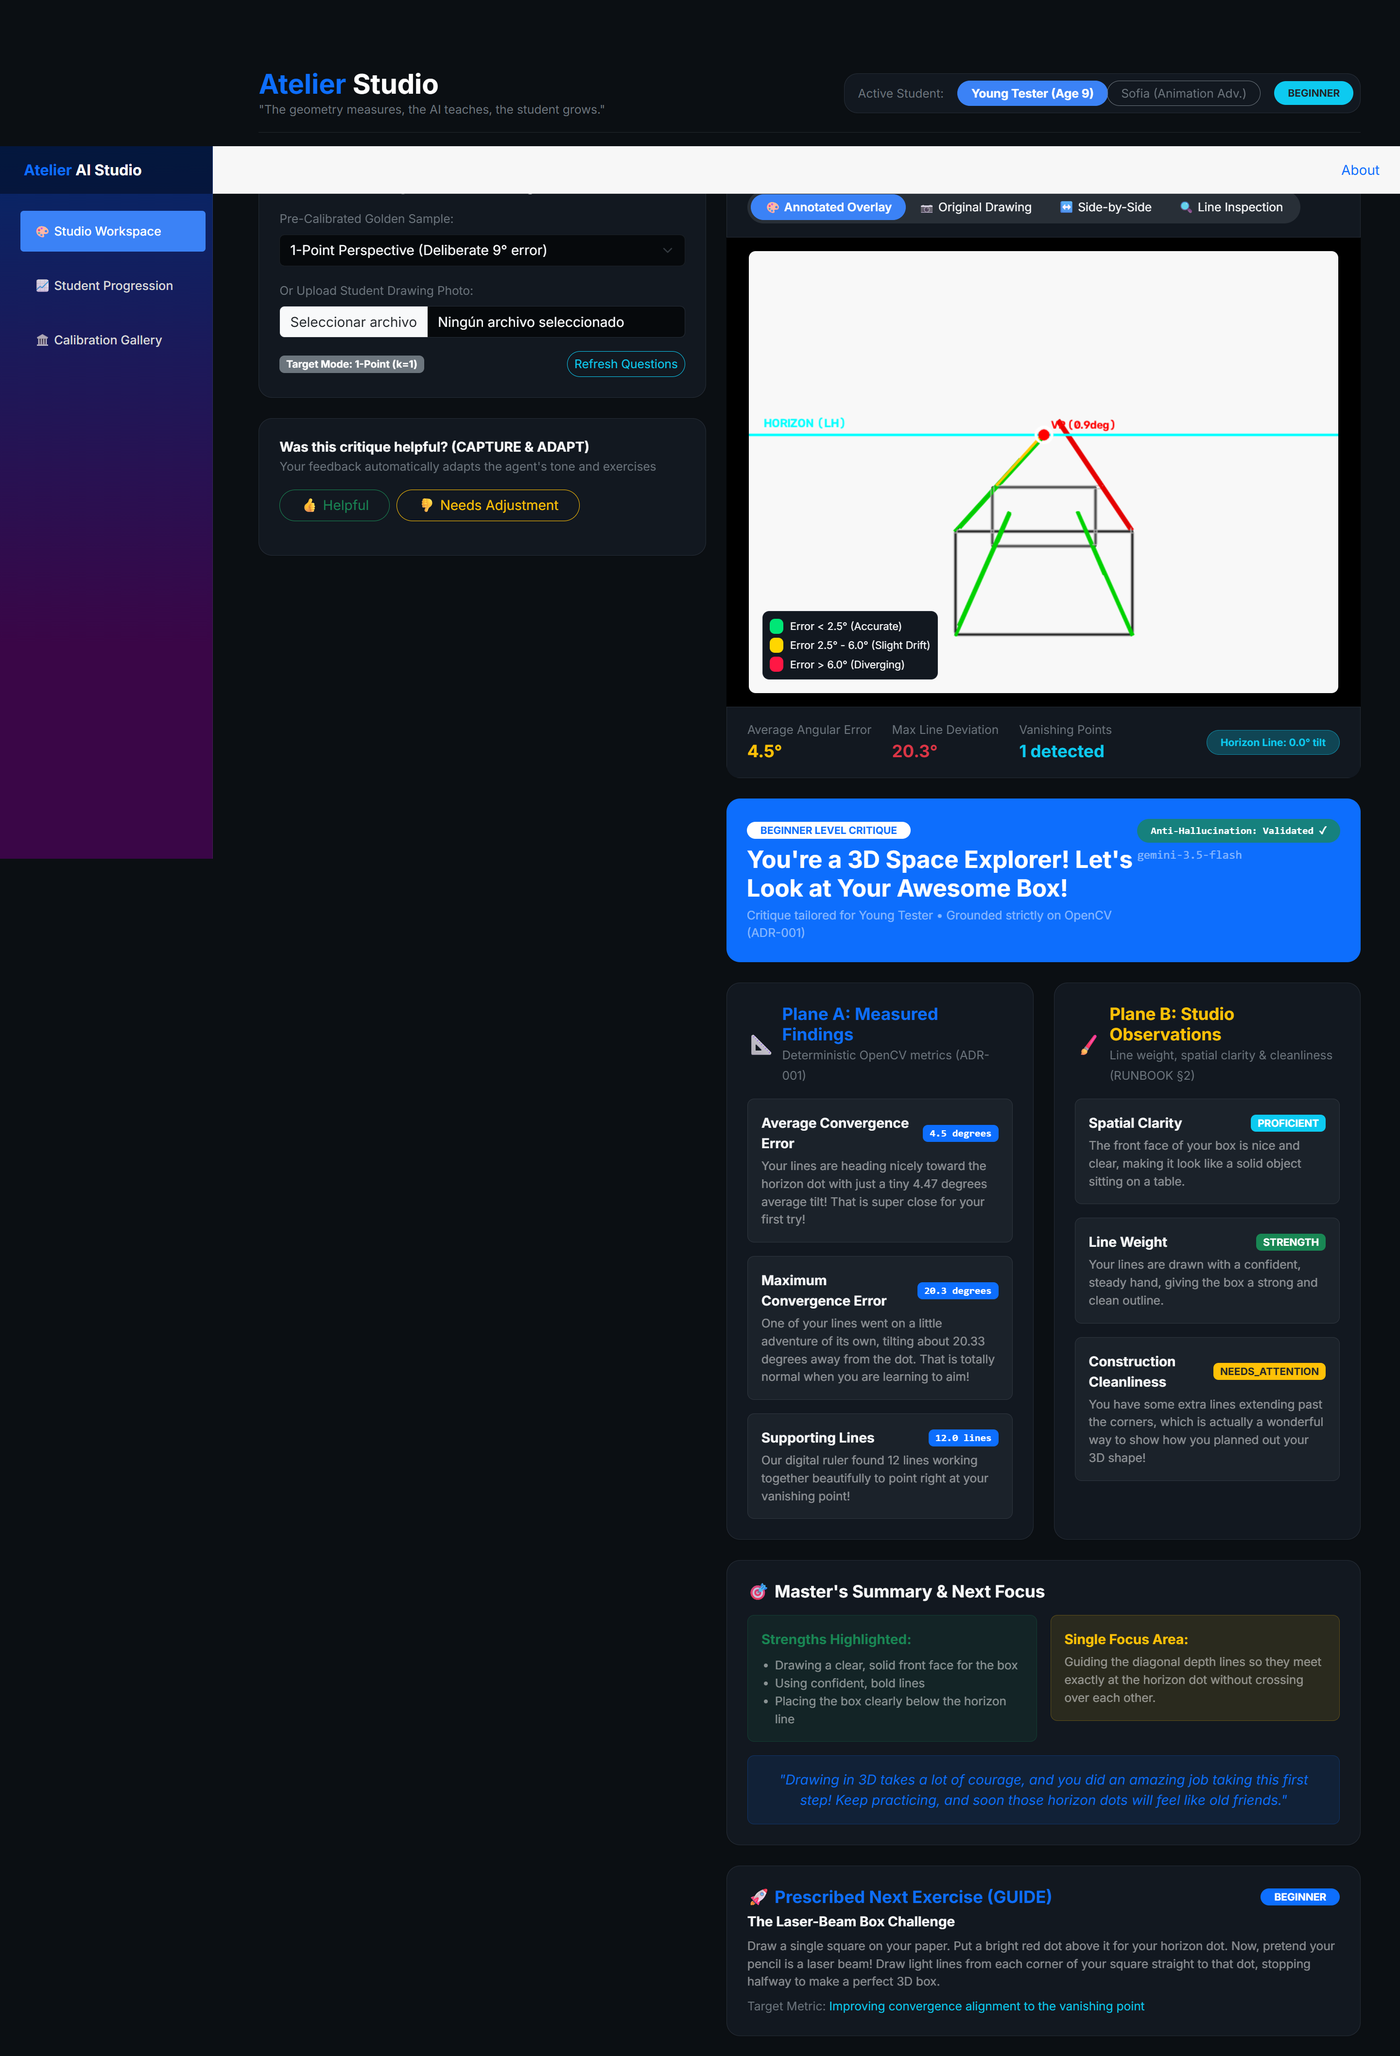
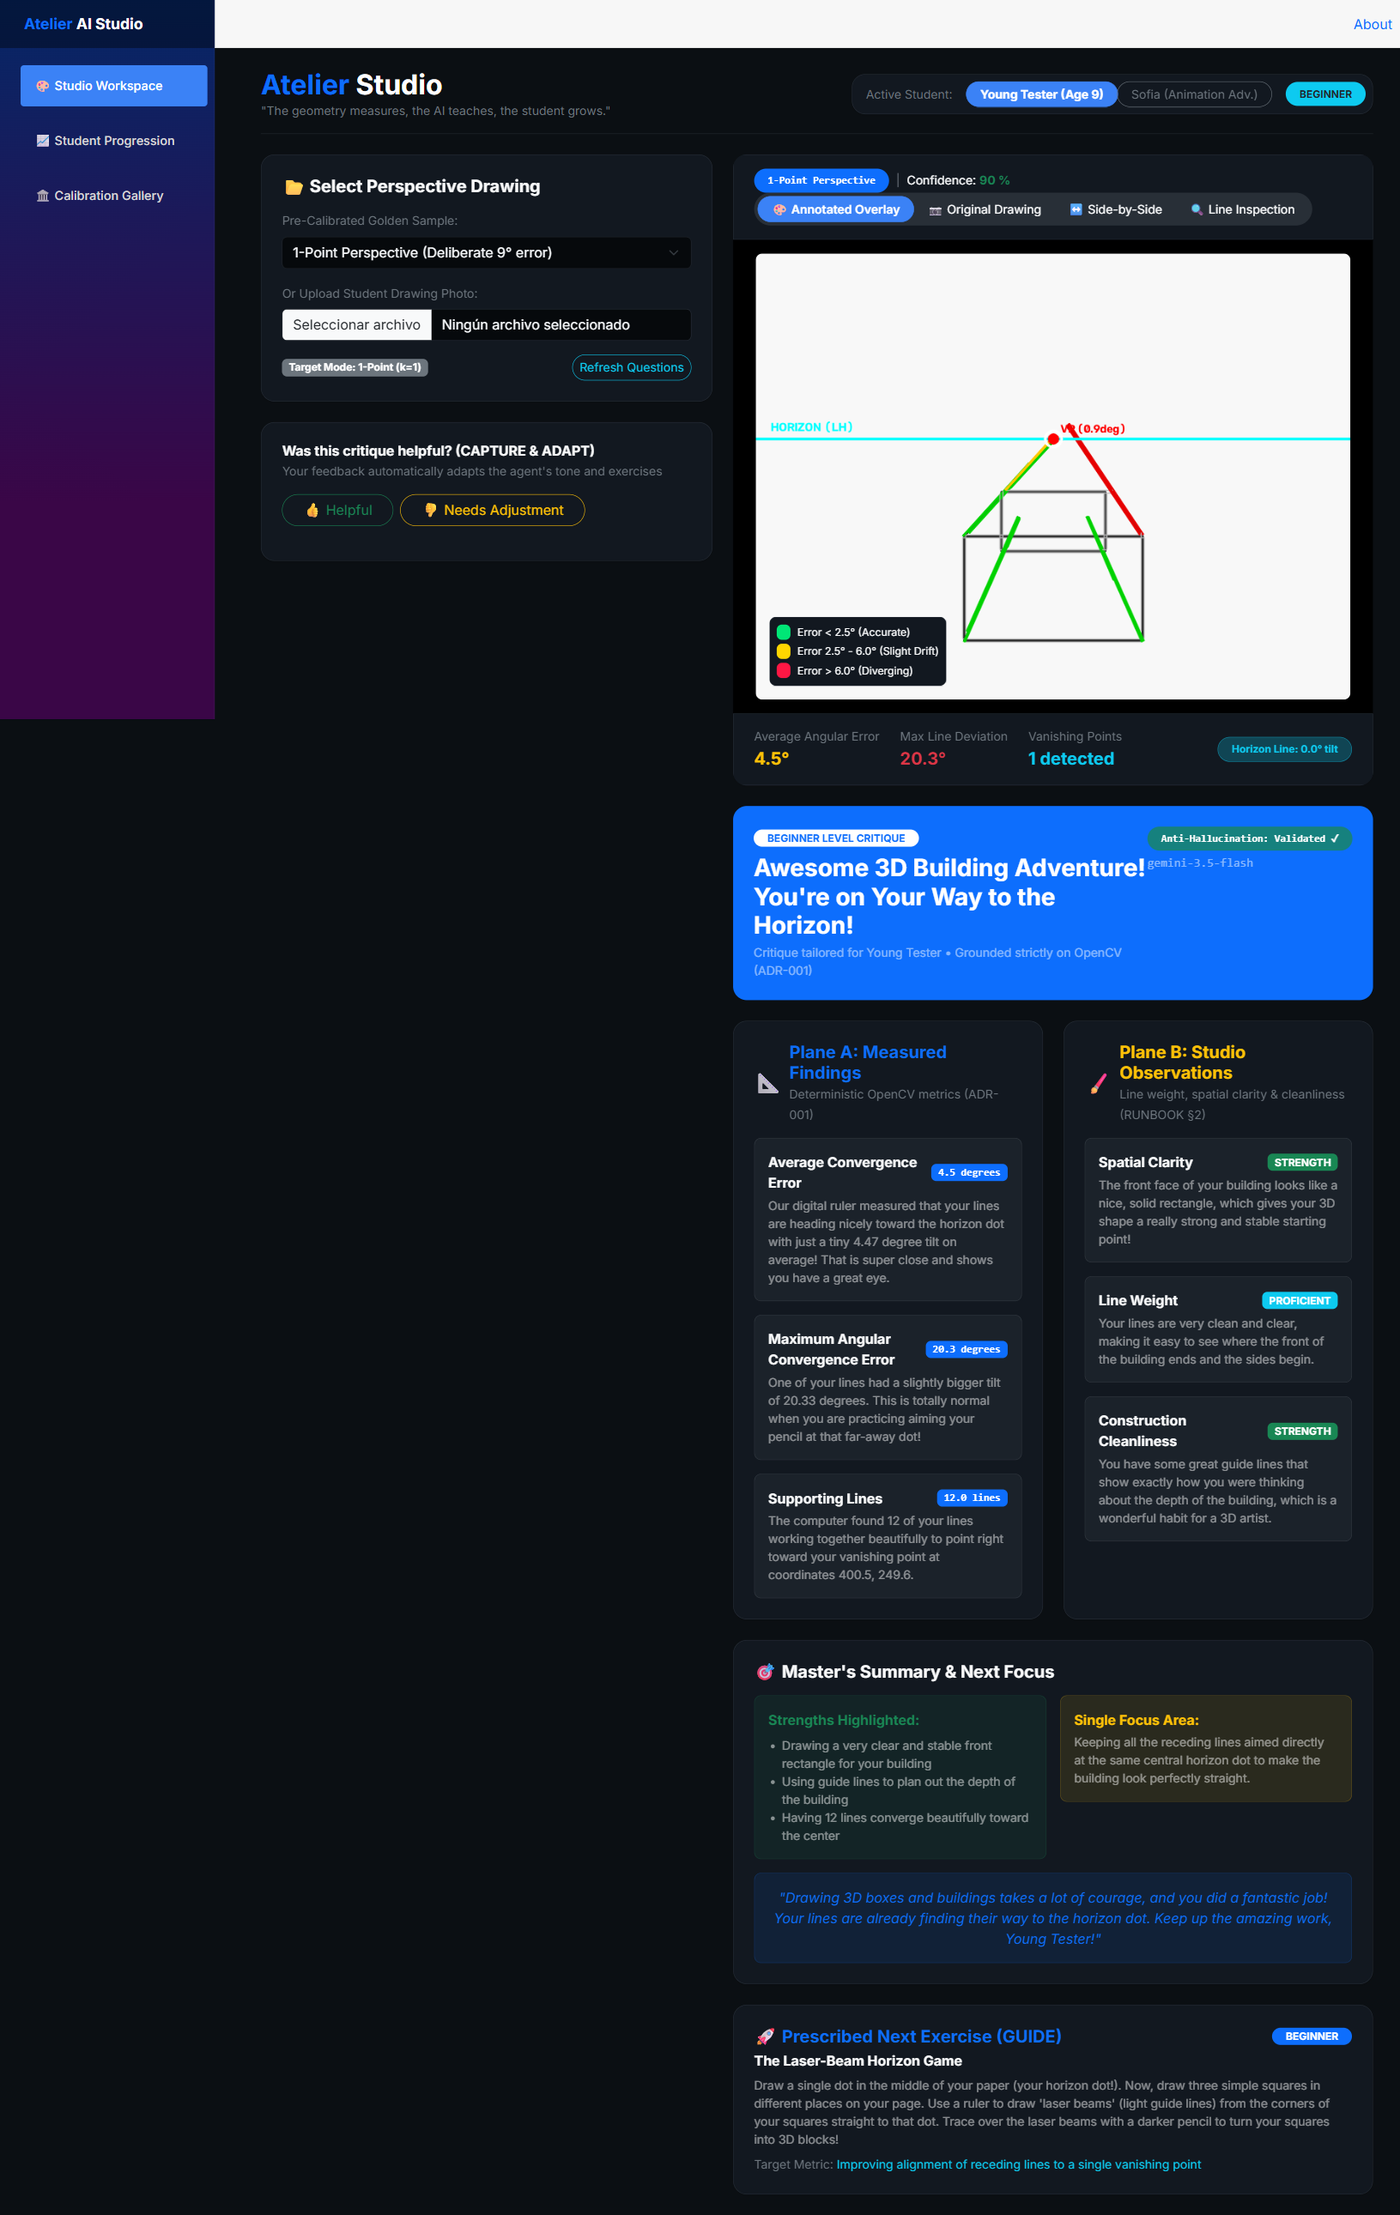
docs: add drawing gate refusal screenshot and document refusal gate in README

Changed region(s): [[0.0, 0.0, 1.0, 0.9961], [0.0, 0.3113, 0.1536, 0.4358]]

diff --git a/README.md b/README.md
@@ -53,6 +53,19 @@ When the model is unreachable the same panel shows an amber *"Deterministic fall
 answered"* instead, with the real `model_version` beneath it. The badge is earned per critique,
 not painted on.
 
+### When it refuses
+
+![Atelier refusing to measure a page of handwritten text, with the model's own reason](docs/img/04-gate.png)
+
+A shopping list, uploaded by mistake. Before any measurement, Gemini 3.5 Flash looks at the page
+and answers one question: *is this a perspective exercise at all?* Here it is not, and it says
+why — *"only repeated lines of text and no perspective drawings or construction lines"*.
+
+**Nothing is measured, and nothing is critiqued.** Without this gate the page would go through
+RANSAC, find a vanishing point among whatever edges exist, and spend real tokens telling a child
+their line weight is confident. Measuring the wrong thing carefully is worse than declining to
+measure it.
+
 ### The calibration set
 
 ![Five calibration drawings with known injected errors, 0° to 9°](docs/img/02-gallery.png)
